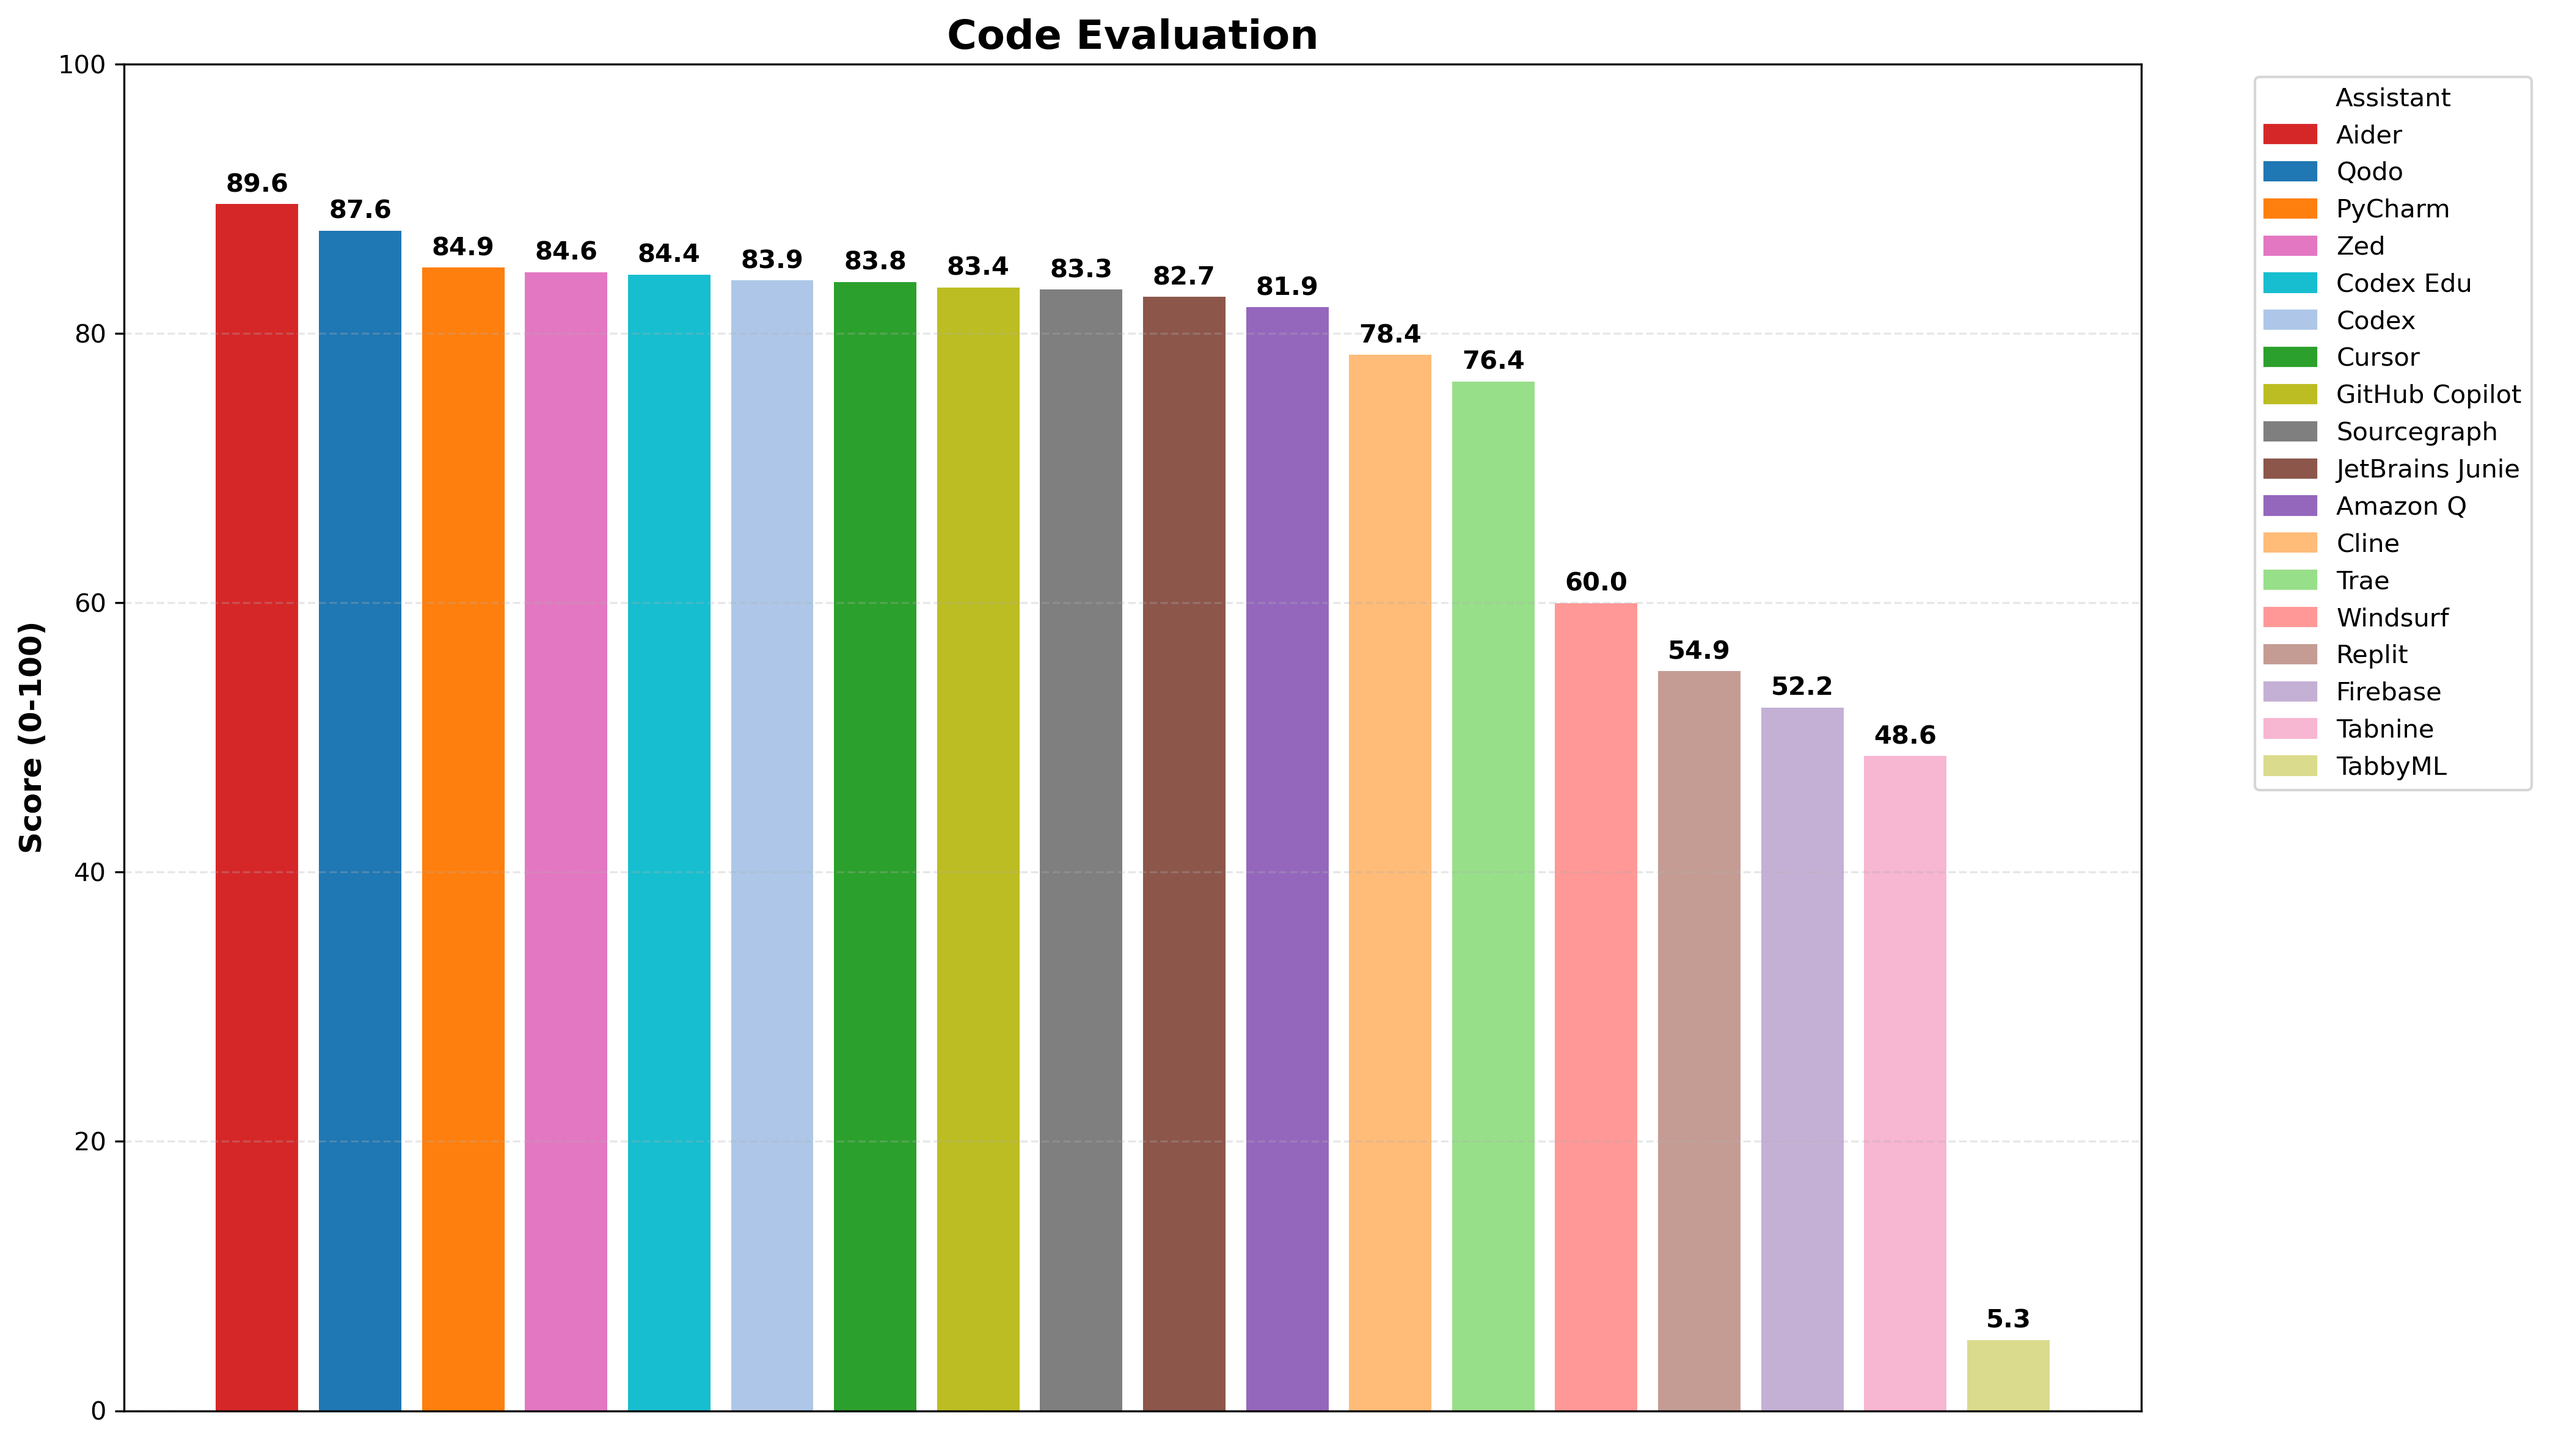
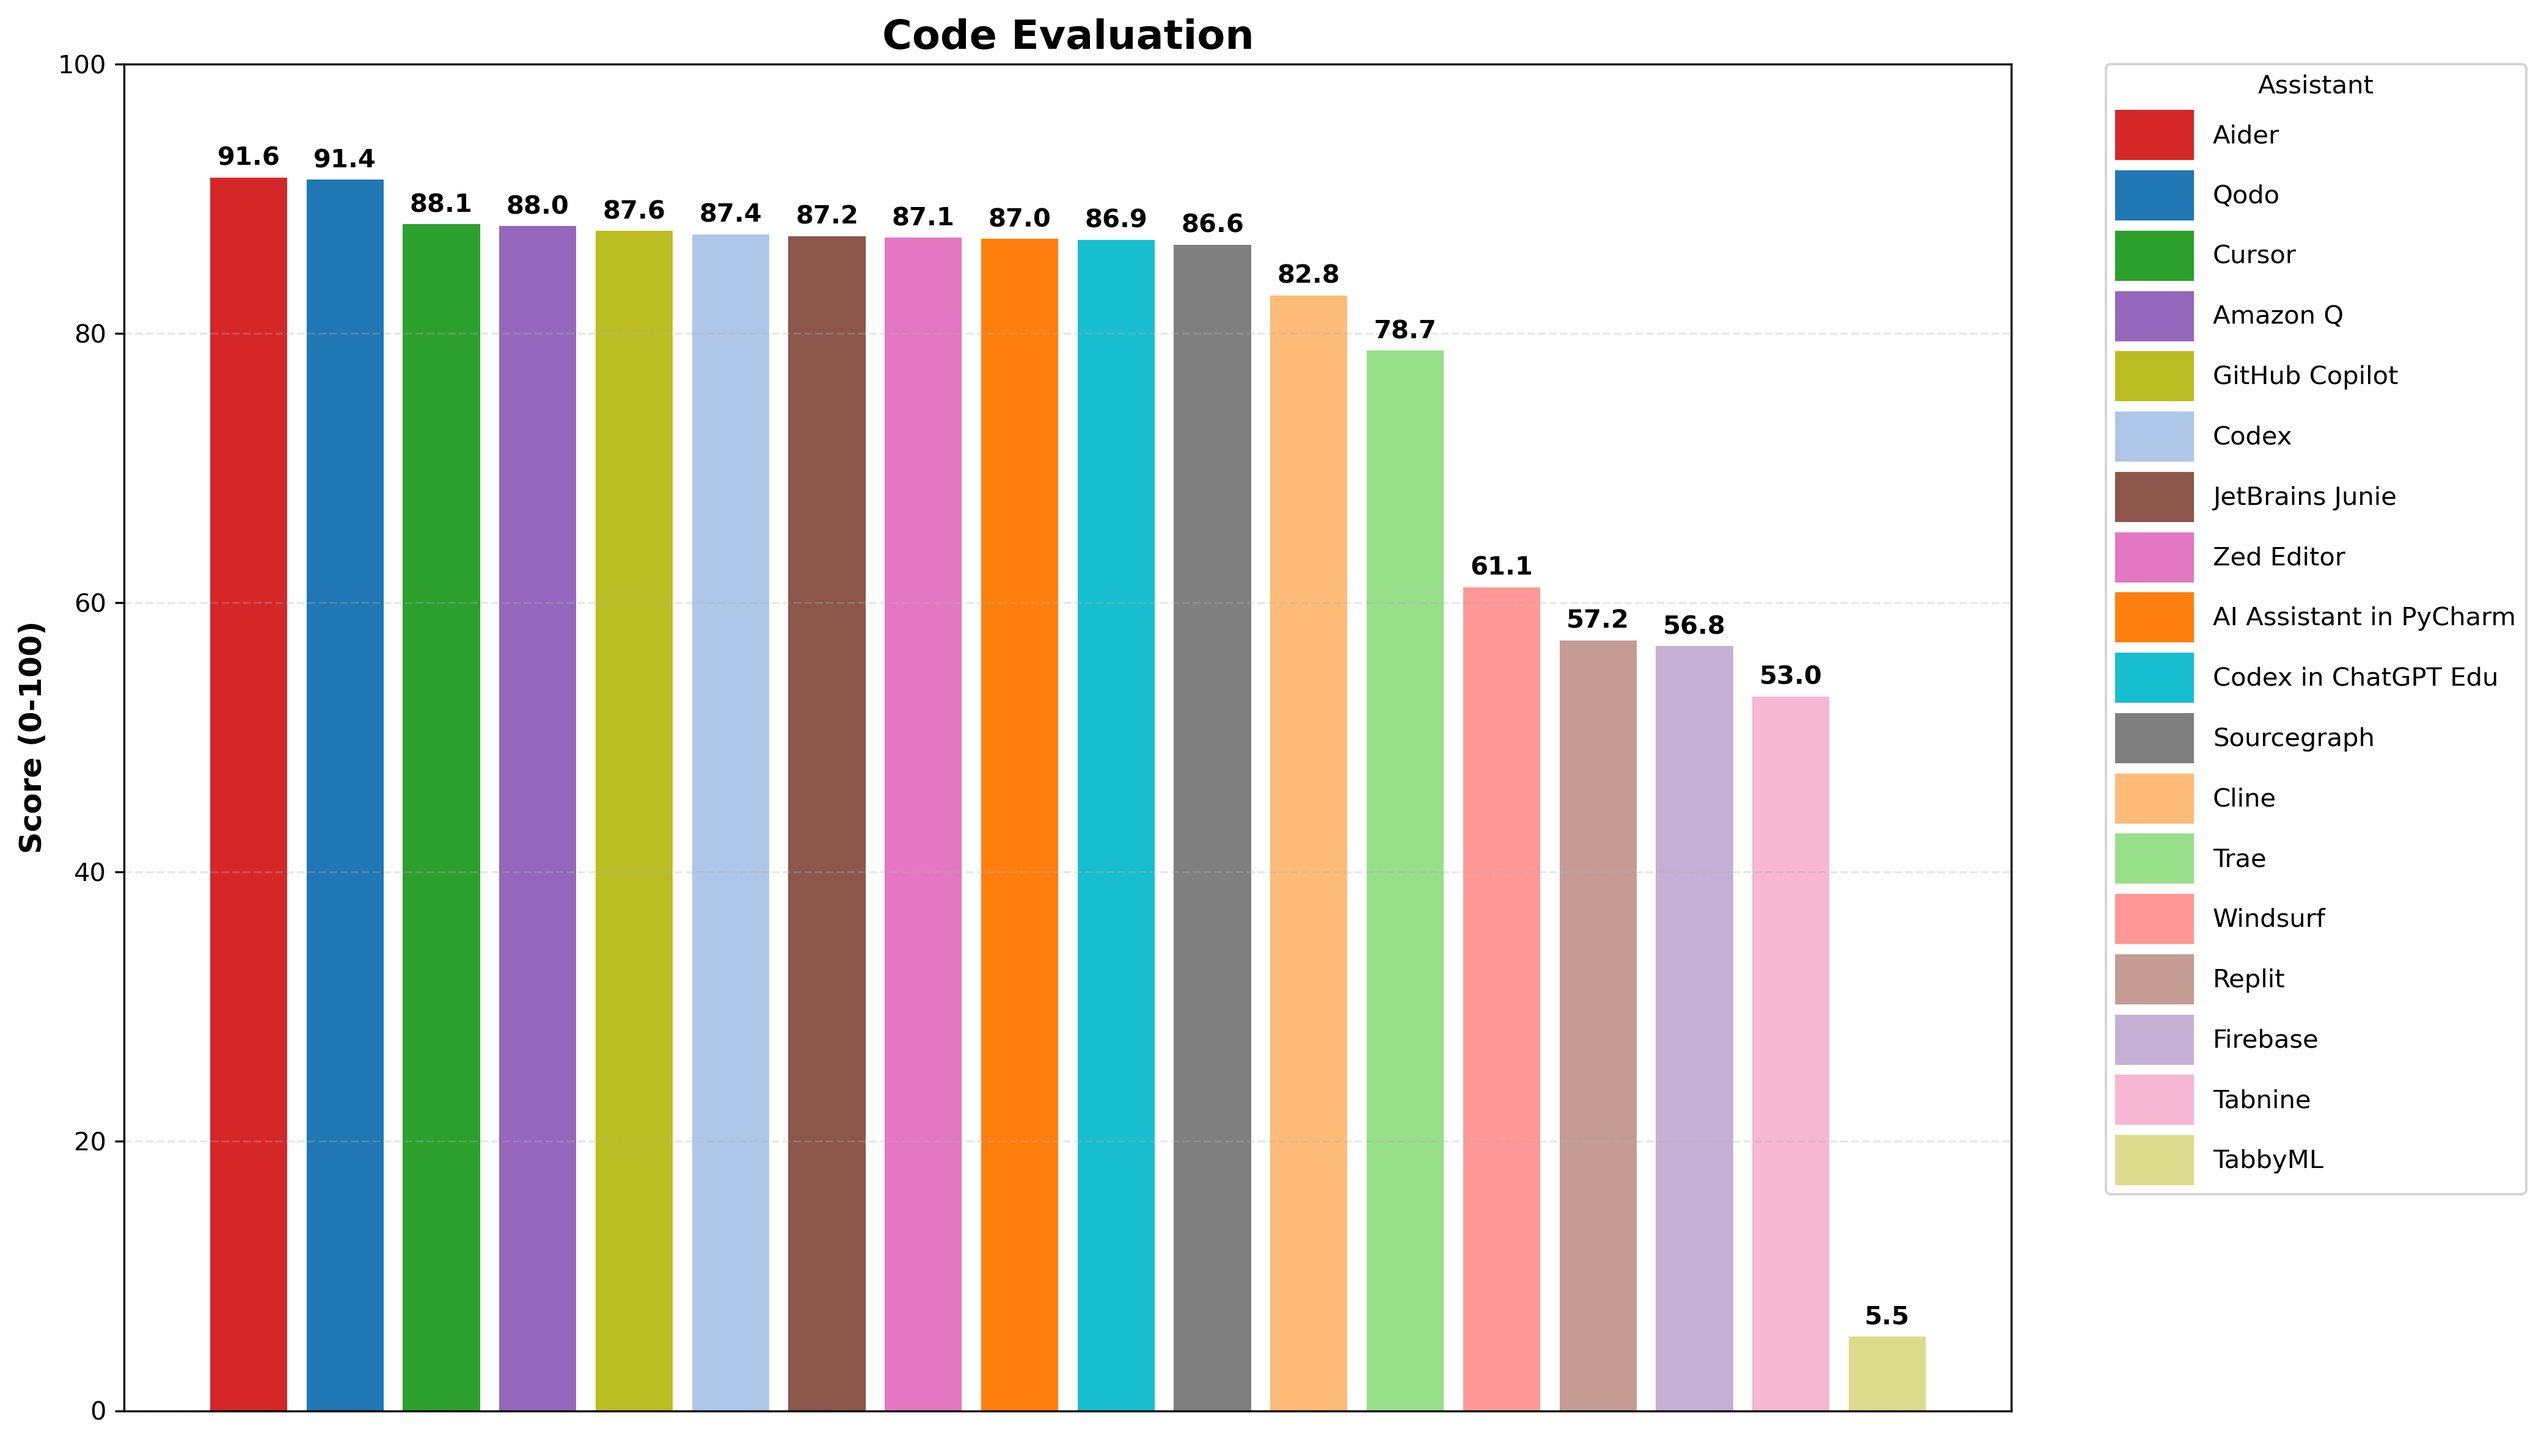
improve plots

diff --git a/assistant_mapping.py b/assistant_mapping.py
@@ -3,18 +3,18 @@
 # Map all possible technical names to a single display name
 TECHNICAL_TO_DISPLAY = {
     "qodo": "Qodo",
-    "pycharm": "PyCharm",
+    "pycharm": "AI Assistant in PyCharm",
     "cursor": "Cursor",
     "aider": "Aider",
     "amazonq": "Amazon Q",
     "jetbrain_junie": "JetBrains Junie",
     "jetbrains_junie": "JetBrains Junie",
-    "zed": "Zed",
-    "zededitor": "Zed",
+    "zed": "Zed Editor",
+    "zededitor": "Zed Editor",
     "sourcegraph": "Sourcegraph",
     "github_copilot": "GitHub Copilot",
-    "codex_edu": "Codex Edu",
-    "codexedu": "Codex Edu",
+    "codex_edu": "Codex in ChatGPT Edu",
+    "codexedu": "Codex in ChatGPT Edu",
     "codex": "Codex",
     "cline": "Cline",
     "trae": "Trae",
@@ -28,15 +28,15 @@ TECHNICAL_TO_DISPLAY = {
 # Assign a unique color to each display name
 DISPLAY_TO_COLOR = {
     "Qodo": "#1f77b4",
-    "PyCharm": "#ff7f0e",
+    "AI Assistant in PyCharm": "#ff7f0e",
     "Cursor": "#2ca02c",
     "Aider": "#d62728",
     "Amazon Q": "#9467bd",
     "JetBrains Junie": "#8c564b",
-    "Zed": "#e377c2",
+    "Zed Editor": "#e377c2",
     "Sourcegraph": "#7f7f7f",
     "GitHub Copilot": "#bcbd22",
-    "Codex Edu": "#17becf",
+    "Codex in ChatGPT Edu": "#17becf",
     "Codex": "#aec7e8",
     "Cline": "#ffbb78",
     "Trae": "#98df8a",

diff --git a/generate_feature_plot.py b/generate_feature_plot.py
@@ -47,7 +47,7 @@ def create_feature_plot():
         colors = [DISPLAY_TO_COLOR[name] for name in sorted_scores.keys()]
         
         # Create the plot
-        plt.figure(figsize=(14, 10))
+        plt.figure(figsize=(14, 8))
         tools = list(sorted_scores.keys())
         scores = list(sorted_scores.values())
         bars = plt.bar(tools, scores, color=colors, alpha=0.8)
@@ -67,7 +67,8 @@ def create_feature_plot():
         
         # Add legend
         legend_handles = [plt.Rectangle((0,0),1,1, color=DISPLAY_TO_COLOR[name]) for name in tools]
-        plt.legend(legend_handles, tools, title="Assistant", bbox_to_anchor=(1.05, 1), loc='upper left')
+        plt.legend(legend_handles, tools, title="Assistant", bbox_to_anchor=(1.05, 1), loc='upper left',
+                  handleheight=2.5, handlelength=3, borderaxespad=0.)
         
         # Adjust layout and save
         plt.tight_layout()

diff --git a/generate_plot.py b/generate_plot.py
@@ -102,7 +102,8 @@ def create_plot(scores):
         plt.text(bar.get_x() + bar.get_width()/2, bar.get_height() + 0.5, 
                  f"{value:.1f}", ha='center', va='bottom', fontweight='bold')
     legend_handles = [plt.Rectangle((0,0),1,1, color=DISPLAY_TO_COLOR[name]) for name in names]
-    plt.legend(legend_handles, names, title="Assistant", bbox_to_anchor=(1.05, 1), loc='upper left')
+    plt.legend(legend_handles, names, title="Assistant", bbox_to_anchor=(1.05, 1), loc='upper left',
+              handleheight=2.5, handlelength=3, borderaxespad=0.)
     plt.tight_layout()
     plt.savefig('coding_assistants.png', dpi=300, bbox_inches='tight')
     plt.close()
